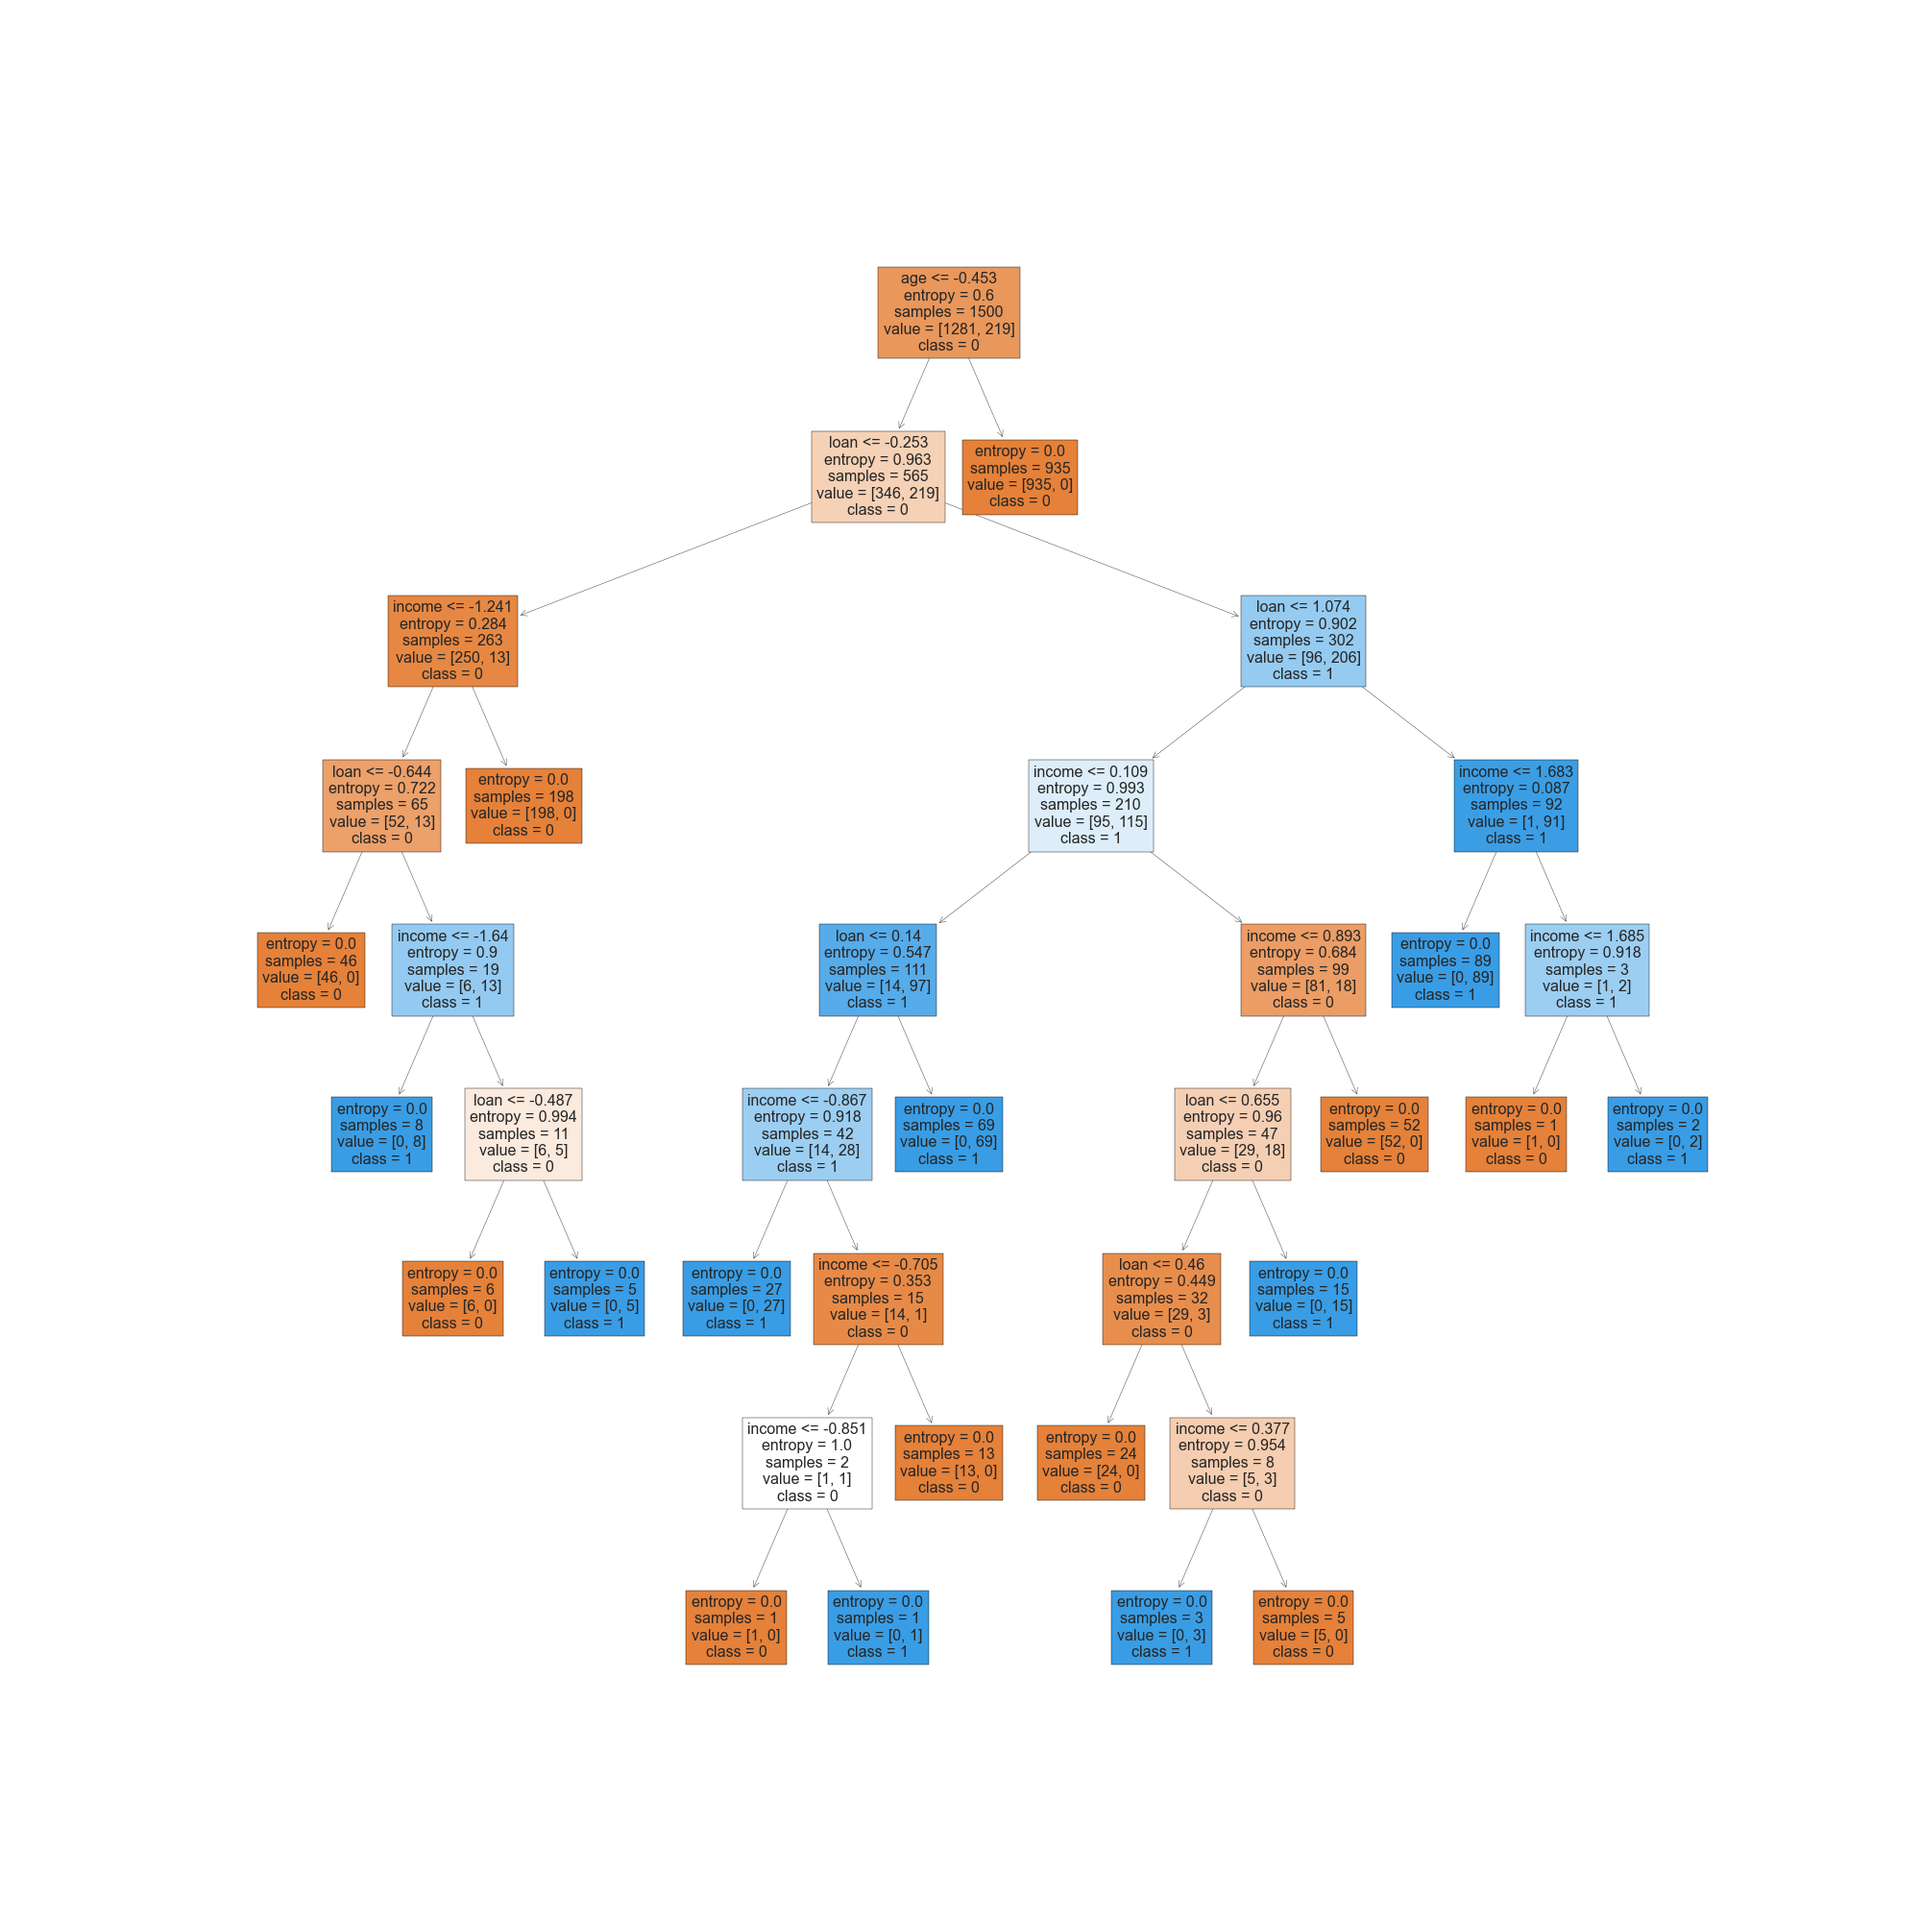
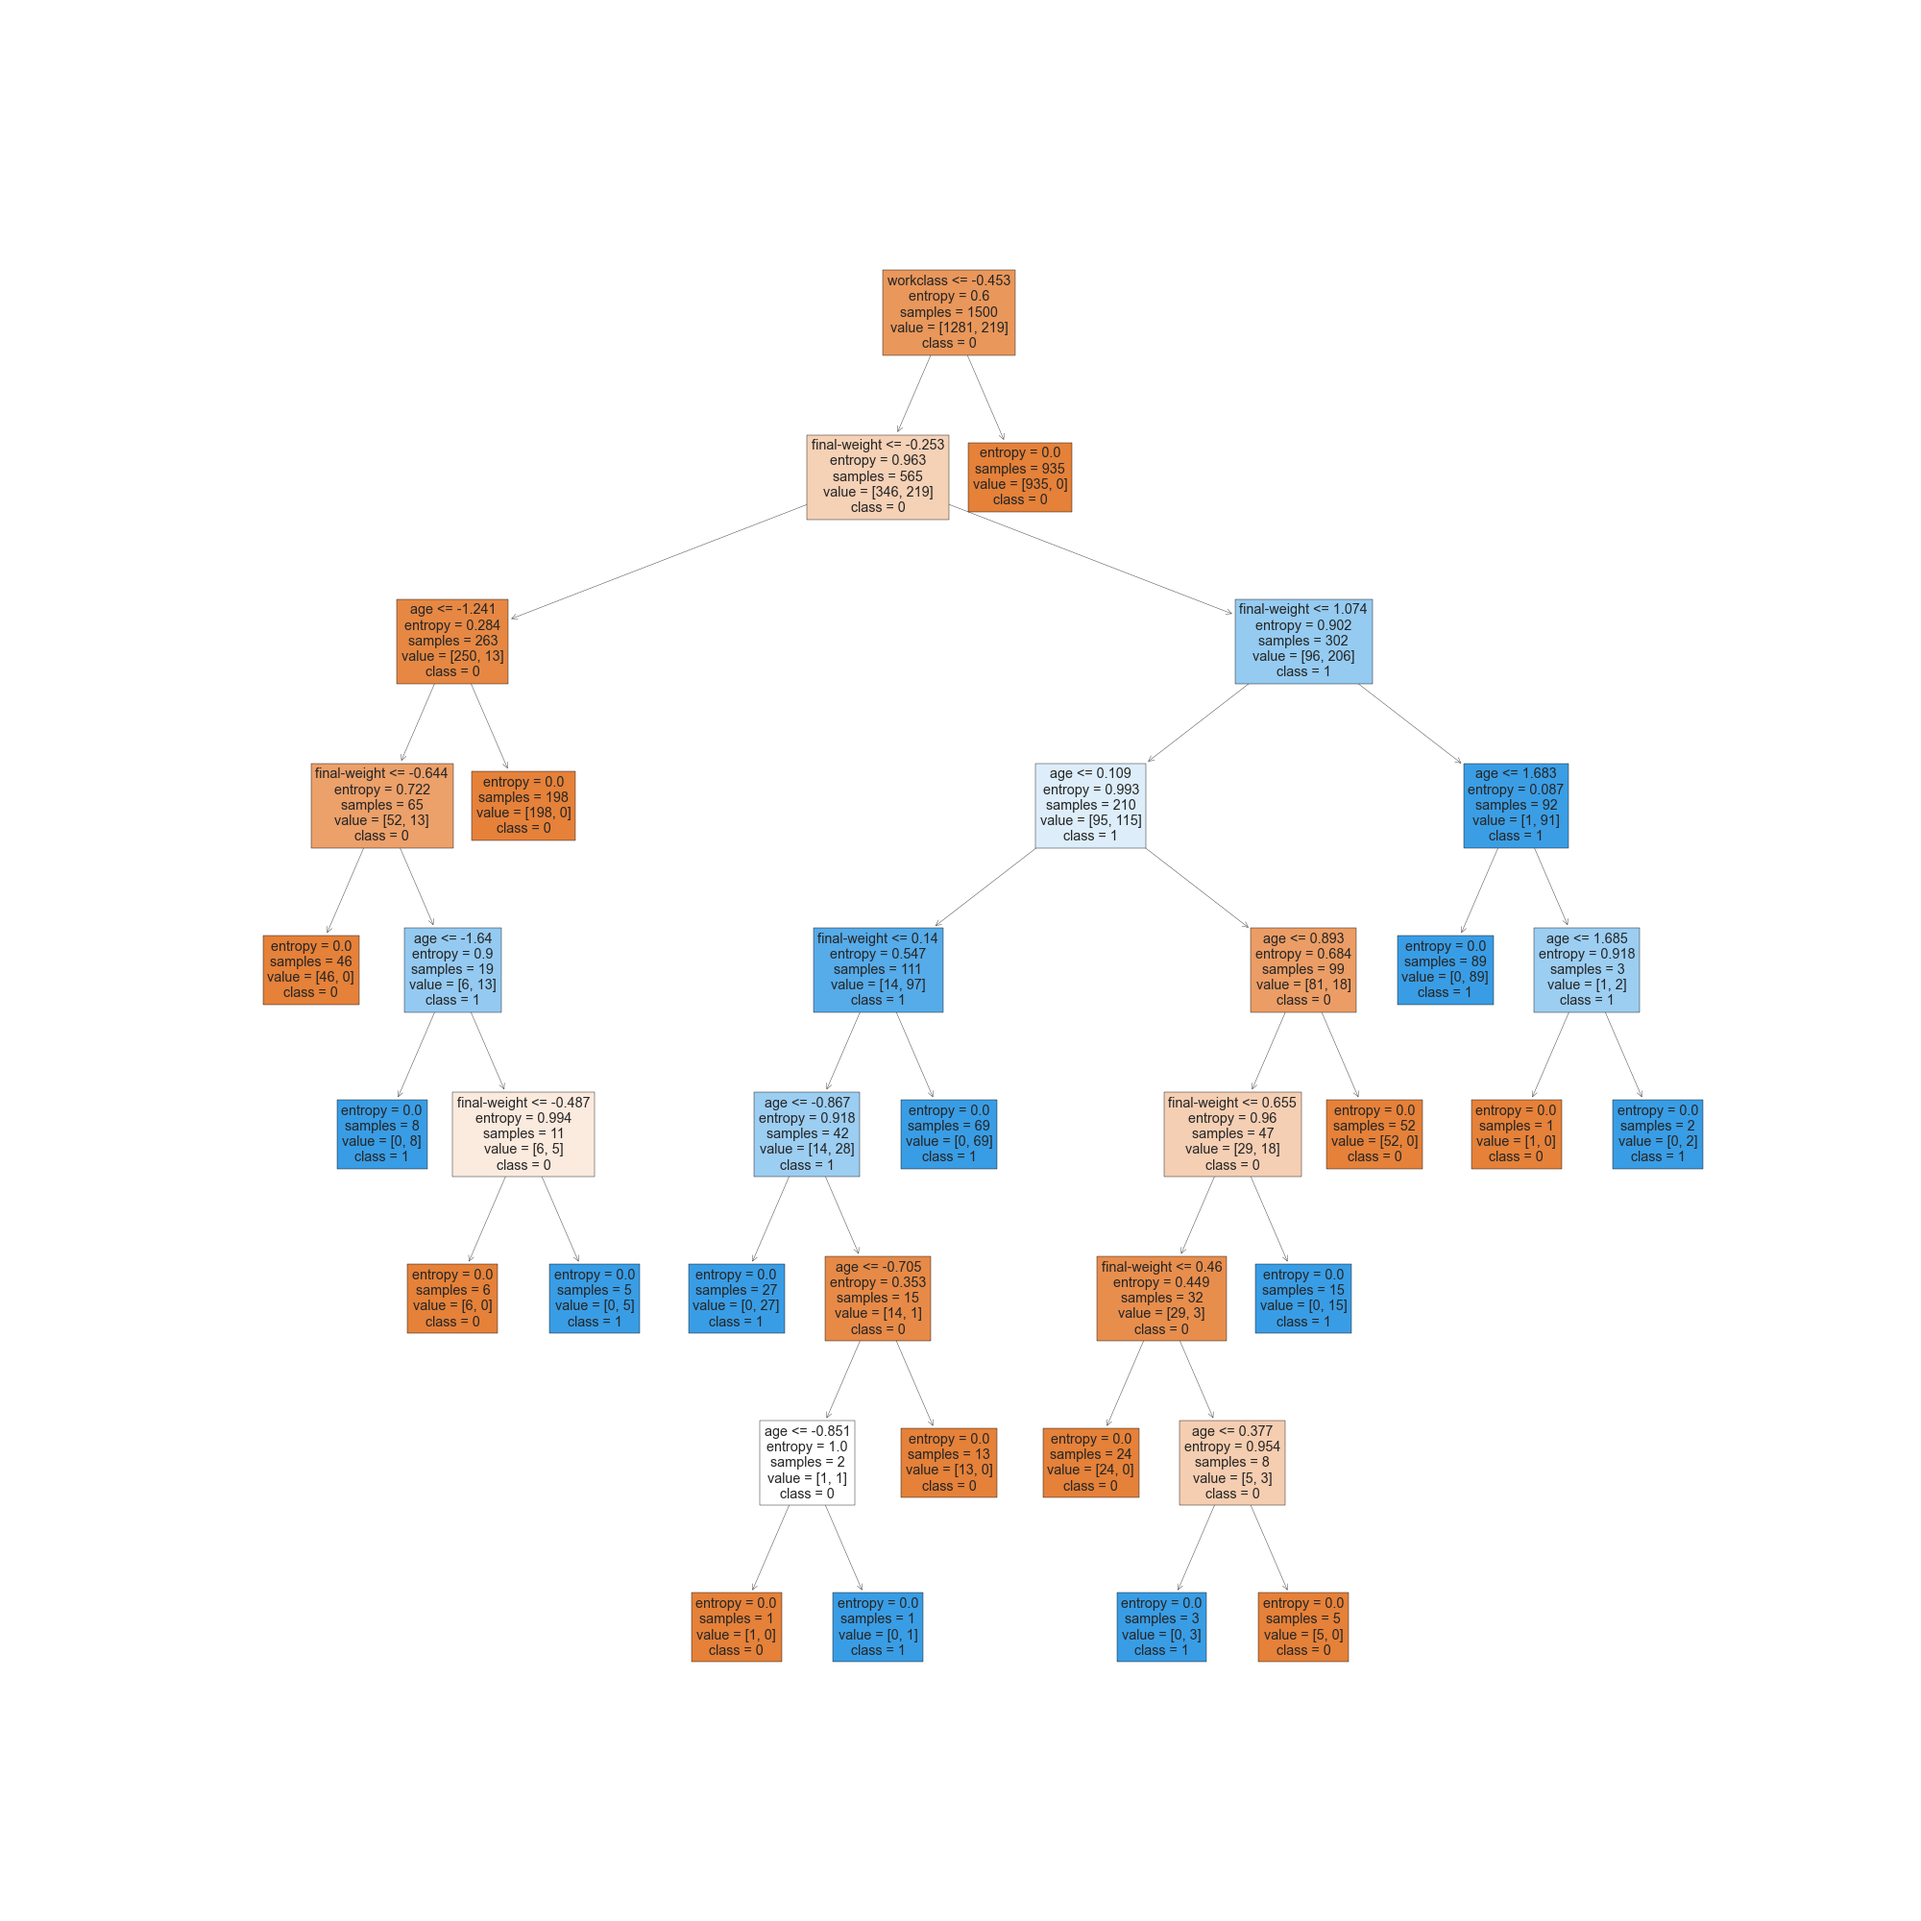
random_forest

diff --git a/machine_learning.py b/machine_learning.py
@@ -13,6 +13,7 @@ from sklearn import tree
 import seaborn as sns
 import pandas as pd
 import numpy as np
+
 class MachineLearning():
     def __init__(self):
         # load_csv_files
@@ -66,94 +67,85 @@ class MachineLearning():
             pickle.dump([self.X_risco_credito, self.y_risco_credito], f)
         shutil.move(f'{os.getcwd()}//risco_credito.pkl', f'{os.getcwd()}/data/my_progress/risco_credito.pkl')
 
-    def statistics(self, trainer, x_treinamento, x_teste, y_treinamento, y_teste, previsoes):
+    def statistics(self, method, data_base, trainer, x_treinamento, x_teste, y_treinamento, y_teste, previsoes, previsores):
         cm = ConfusionMatrix(trainer)
         cm.fit(x_treinamento, y_treinamento)
 
-        # print(accuracy_score(y_teste, previsoes))
-        print(cm.score(x_teste, y_teste))
-        print(confusion_matrix(y_teste, previsoes))
+        print(f"\n{method}_{data_base}")
+        print(f"accuracy_score: {cm.score(x_teste, y_teste)}")
+        pprint.pprint(f"confusion_matrix: {confusion_matrix(y_teste, previsoes)}")
+        print("classification_report: ")
         print(classification_report(y_teste, previsoes))
+        if (method != "naive_bayes" and data_base != "credit_risk") and (method != "random_forest"):
+            names_class = list()
+            for name_class in trainer.classes_:
+                names_class.append(str(name_class))
 
-    def naive_bayes(self, data_base):
-        if data_base == "risco_credito":
+            fig, axes = plt.subplots(nrows=1, ncols=1, figsize=(20, 20))
+            if method == "decision_tree" and data_base == "census":
+                tree.plot_tree(trainer, class_names=names_class, filled=True)
+            else:
+                tree.plot_tree(trainer, feature_names=previsores, class_names=names_class, filled=True)
+            fig.savefig(f'{data_base}_{method}.png')
+            shutil.move(f'{os.getcwd()}//{data_base}_{method}.png', f'{os.getcwd()}/data/imagens/{data_base}_{method}.png')
+
+    def naive_bayes(self, method,  data_base, previsores):
+        if data_base == "credit_risk":
             naive_risco_credito = GaussianNB()
             naive_risco_credito.fit(self.X_risco_credito, self.y_risco_credito)
             previsao = naive_risco_credito.predict([[0, 0, 1, 2], [2, 0, 0, 0]])
-            # print(previsao)
+            print(f"\n{method}_{data_base}: {previsao}")
         elif data_base == "credit":
             naive_credit_data = GaussianNB()
             naive_credit_data.fit(self.X_credit_treinamento, self.y_credit_treinamento)
             previsoes = naive_credit_data.predict(self.X_credit_teste)
-            # self.statistics(naive_credit_data, previsoes, self.X_credit_treinamento, self.y_credit_treinamento, self.X_credit_teste, self.y_credit_teste)
+            self.statistics(method, data_base, naive_credit_data, self.X_credit_treinamento, self.X_credit_teste, self.y_credit_treinamento, self.y_credit_teste, previsoes, previsores)
         elif data_base == "census":
             naive_census_data = GaussianNB()
             naive_census_data.fit(self.X_census_treinamento, self.y_census_treinamento)
             previsoes = naive_census_data.predict(self.X_census_teste)
-            # self.statistics(naive_census_data, previsoes, self.X_census_treinamento, self.y_census_treinamento, self.X_census_teste, self.y_census_teste)
+            self.statistics(method, data_base, naive_census_data, self.X_census_treinamento, self.X_census_teste, self.y_census_treinamento, self.y_census_teste, previsoes, previsores)
 
-    def decision_tree(self, data_base):
-        previsores = ['income', 'age', 'loan']
-        if data_base == "risco_credito":
-            previsores = ['história', 'dívida', 'garantias', 'renda']
+    def decision_tree(self, method,  data_base, previsores):
+        if data_base == "credit_risk":
             tree_credit_risk = DecisionTreeClassifier(criterion="entropy")
             tree_credit_risk.fit(self.X_risco_credito, self.y_risco_credito)
-            # print(tree_credit_risk.feature_importances_)
-            pprint.pprint(tree.plot_tree(tree_credit_risk, feature_names=previsores, class_names=tree_credit_risk.classes_, filled=True))
-            figura, eixos = plt.subplots(nrows=1, ncols=1, figsize=(10,10))
-            # print(self.X_risco_credito, self.y_risco_credito)
-            previsoes = tree_credit_risk.predict([[0, 0, 1, 2], [2, 0, 0, 0]])
-            # print(previsoes)
+            previsao = tree_credit_risk.predict([[0, 0, 1, 2], [2, 0, 0, 0]])
+            print(f"\n{method}_{data_base}: {previsao}")
         elif data_base == "credit":
             tree_credit = DecisionTreeClassifier(criterion="entropy", random_state=0)
             tree_credit.fit(self.X_credit_treinamento, self.y_credit_treinamento)
             previsoes = tree_credit.predict(self.X_credit_teste)
-
-            names_class = list()
-            for name_class in tree_credit.classes_:
-                names_class.append(str(name_class))
-
-            fig, axes = plt.subplots(nrows=1, ncols=1, figsize=(20, 20))
-            tree.plot_tree(tree_credit, feature_names=previsores, class_names=names_class, filled=True)
-            fig.savefig('credit_decision_tree.png')
-            shutil.move(f'{os.getcwd()}//credit_decision_tree.png', f'{os.getcwd()}/data/Imagens/credit_decision_tree.png')
-
-            # self.statistics(tree_credit, self.X_credit_treinamento, self.X_credit_teste, self.y_credit_treinamento, self.y_credit_teste, previsoes)
+            self.statistics(method, data_base, tree_credit, self.X_credit_treinamento, self.X_credit_teste, self.y_credit_treinamento, self.y_credit_teste, previsoes, previsores)
         elif data_base == "census":
             tree_census = DecisionTreeClassifier(criterion="entropy", random_state=0)
             tree_census.fit(self.X_census_treinamento, self.y_census_treinamento)
             previsoes = tree_census.predict(self.X_census_teste)
+            self.statistics(method, data_base, tree_census, self.X_census_treinamento, self.X_census_teste, self.y_census_treinamento, self.y_census_teste, previsoes, previsores)
 
-            names_class = list()
-            for name_class in tree_census.classes_:
-                names_class.append(str(name_class))
-            # fig, axes = plt.subplots(nrows=1, ncols=1, figsize=(20, 20))
-            # tree.plot_tree(tree_census, feature_names=previsores, class_names=names_class, filled=True)
-            # fig.savefig('census_decision_tree.png')
-            # shutil.move(f'{os.getcwd()}//census_decision_tree.png', f'{os.getcwd()}/data/Imagens/census_decision_tree.png')
-
-            # self.statistics(tree_census, self.X_census_treinamento, self.X_census_teste, self.y_census_treinamento, self.y_census_teste, previsoes)
-
-    def random_forest(self, data_base):
+    def random_forest(self, method,  data_base, previsores):
         if data_base == "credit":
             credit_random_forest = RandomForestClassifier(n_estimators=40, criterion="entropy", random_state=0)
             credit_random_forest.fit(self.X_credit_treinamento, self.y_credit_treinamento)
             previsoes = credit_random_forest.predict(self.X_credit_teste)
-            print(accuracy_score(self.y_credit_teste, previsoes))
-            # self.statistics()
+            self.statistics(method, data_base, credit_random_forest, self.X_credit_treinamento, self.X_credit_teste, self.y_credit_treinamento, self.y_credit_teste, previsoes, previsores)
         elif data_base == "census":
             census_random_forest = RandomForestClassifier(n_estimators=40, criterion="entropy", random_state=0)
             census_random_forest.fit(self.X_census_treinamento, self.y_census_treinamento)
             previsoes = census_random_forest.predict(self.X_census_teste)
-            print(accuracy_score(self.y_census_teste, previsoes))
-            # self.statistics()
+            self.statistics(method, data_base, census_random_forest, self.X_census_treinamento, self.X_census_teste, self.y_census_treinamento, self.y_census_teste, previsoes, previsores)
 
 def launcher():
-    warehouse = ["risco_credito", "credit", "census"]
+    warehouse = {
+        "credit_risk": None,
+        "credit": ["age", "workclass", "final-weight", "education", "education-num", "marital-status", "occupation", "relationship", "race", "sex", "capital-gain", "capital-loos", "hour-per-week", "native-country"],
+        "census": ['income', 'age', 'loan'],
+    }
+
     machine_learning = MachineLearning()
     for data_base in warehouse:
-        if data_base != "risco_credito":
-            # machine_learning.naive_bayes(data_base)
-            # machine_learning.decision_tree(data_base)
-            machine_learning.random_forest(data_base)
+        machine_learning.naive_bayes("naive_bayes", data_base, warehouse[data_base])
+        machine_learning.decision_tree("decision_tree", data_base, warehouse[data_base])
+        machine_learning.random_forest("random_forest", data_base, warehouse[data_base])
+
 launcher()
